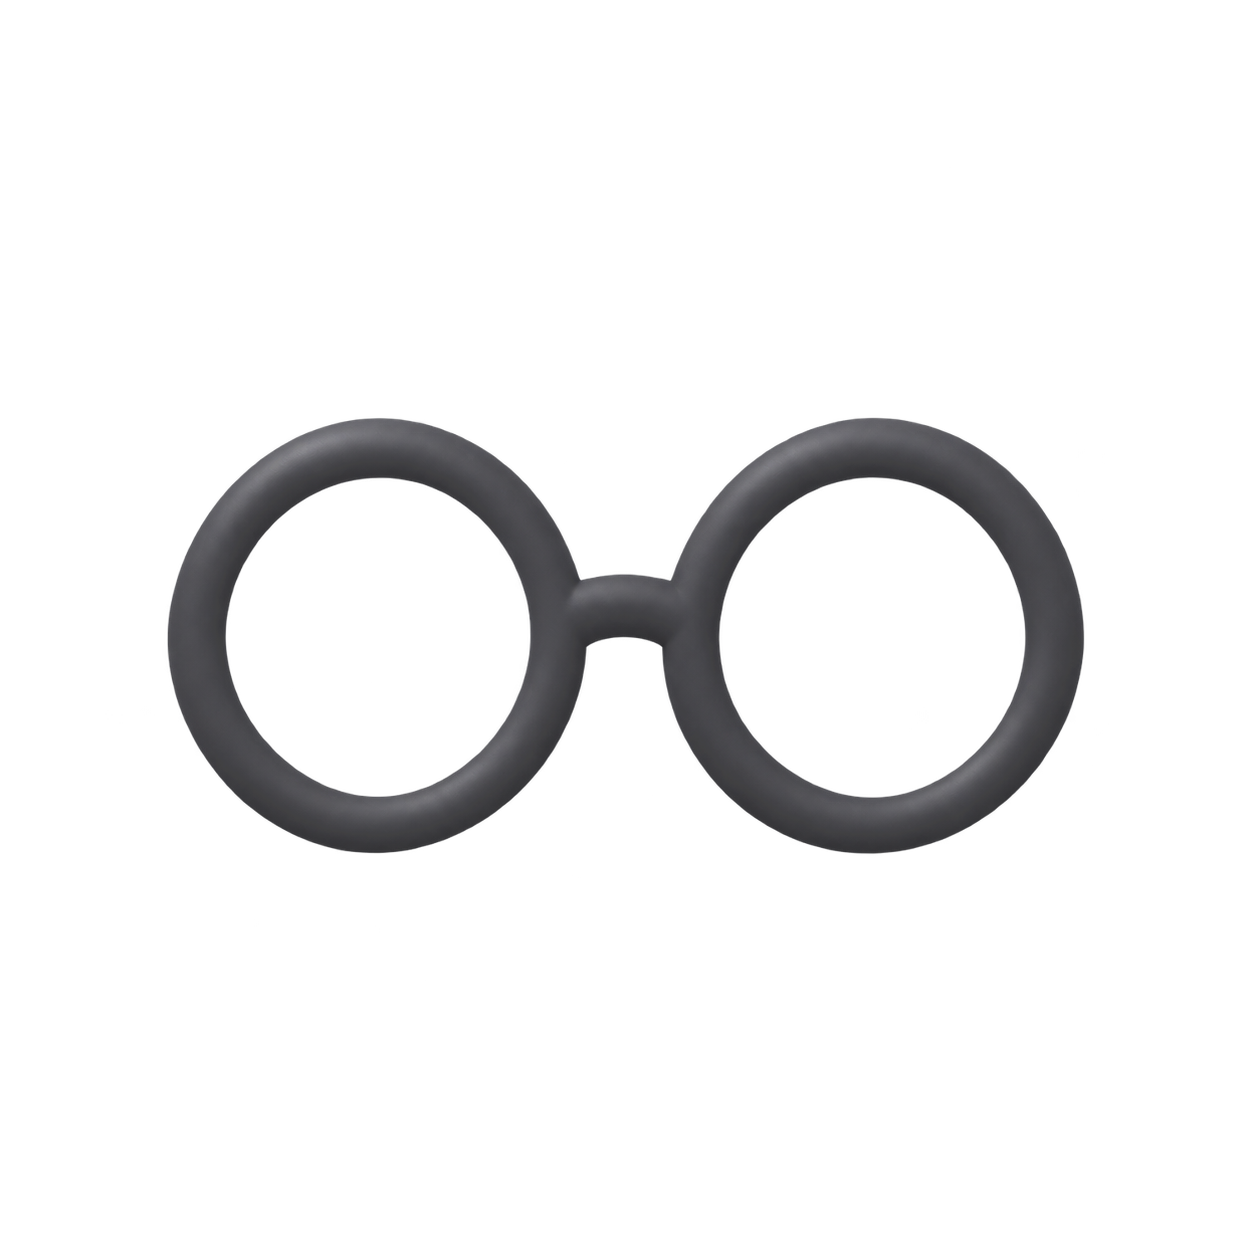
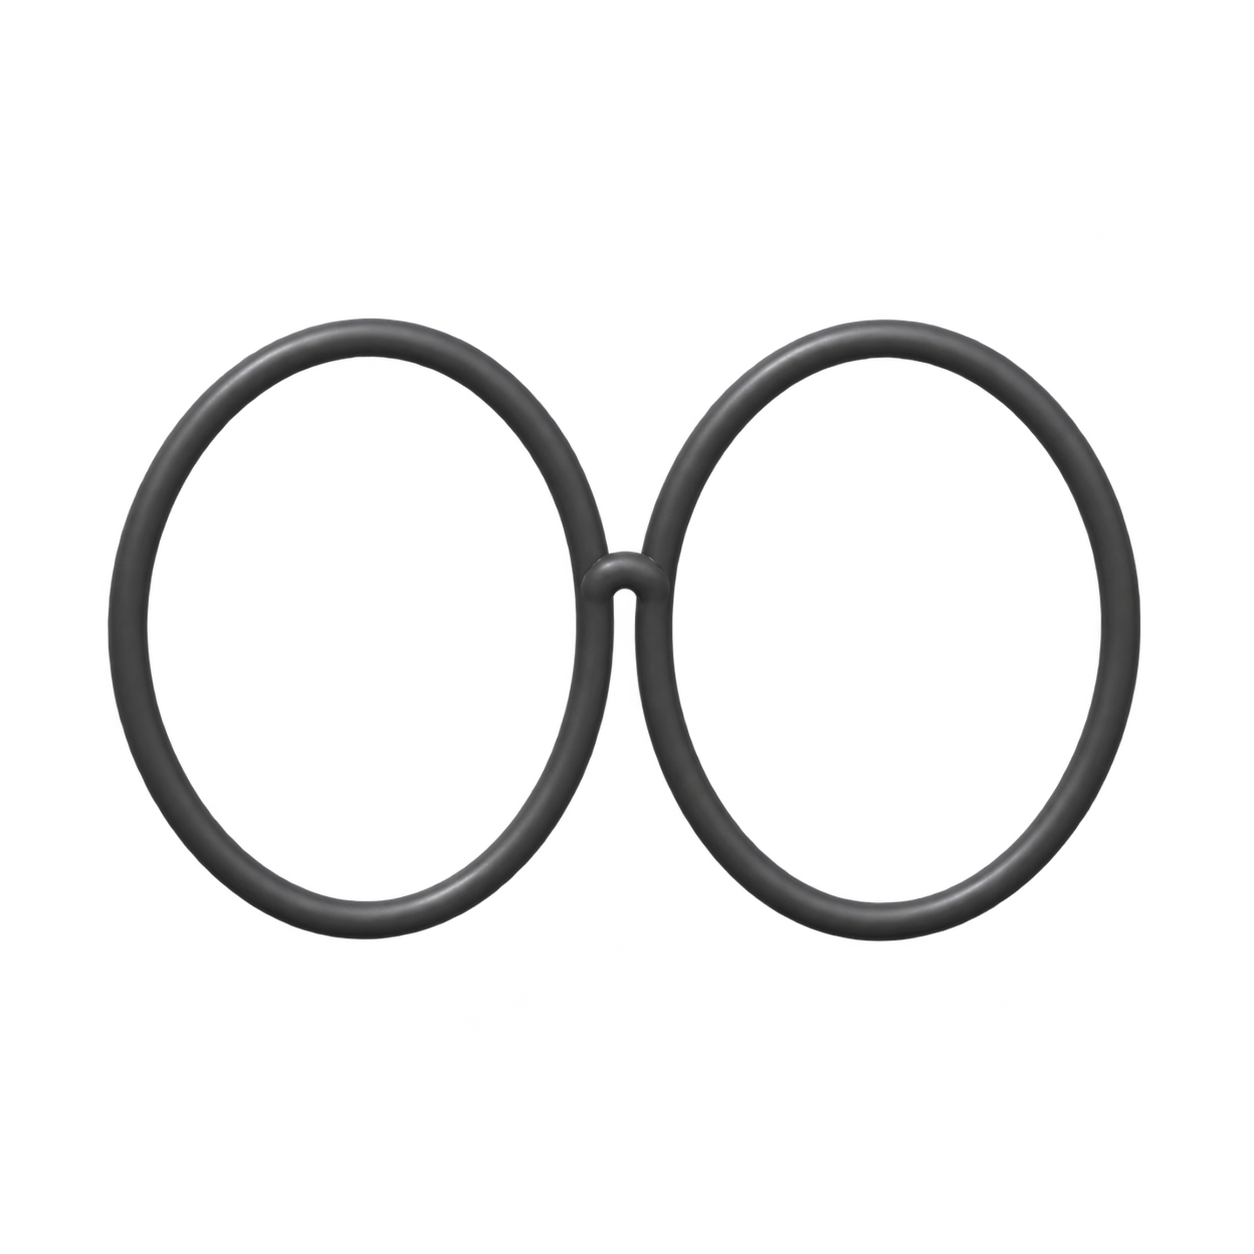
fixing glasses fit

Changed region(s): [[0.0622, 0.2488, 0.933, 0.7775]]

diff --git a/app/components/RoomiePet.tsx b/app/components/RoomiePet.tsx
@@ -1,15 +1,10 @@
 import { useContext } from 'react';
 import { RoomiePetContext } from './RoomiePetContext';
-import { getPetAccessoryIds } from '../data/roomiePetAccessories';
+import { getPetAccessoryIds, getRoomieAccessoryFrame } from '../data/roomiePetAccessories';
 import type { CSSProperties } from 'react';
 import type { PetMood } from '../data/roomiePetMood';
 import { ROOMIE_ACTIONS, type RoomieActionId } from '../data/roomieActions';
-import {
-  ROOMIE_ACCESSORY_PLACEMENTS,
-  ROOMIE_ACCESSORY_SLOTS,
-  type RoomieAccessoryId,
-  type RoomieAccessorySlot,
-} from '../data/roomiePetAccessories';
+import { ROOMIE_ACCESSORY_SLOTS, type RoomieAccessoryId, type RoomieAccessorySlot } from '../data/roomiePetAccessories';
 import annoyed3dBody from '../../assets/roomie-pet-kit/roomie-pet-kit/assets/annoyed-3d-body.png';
 import annoyed3dDetails from '../../assets/roomie-pet-kit/roomie-pet-kit/assets/annoyed-3d-details.png';
 import happy3dBody from '../../assets/roomie-pet-kit/roomie-pet-kit/assets/happy-3d-body.png';
@@ -128,14 +123,13 @@ export default function RoomiePet({ mood = 'happy', color, accessories: accessor
   const selectedAccessories = [...equippedBySlot.values()];
 
   function renderAccessory(id: RoomieAccessoryId) {
-    const [left, top, width, height] = ROOMIE_ACCESSORY_PLACEMENTS[id].map(value => value * size);
+    const [left, top, width, height] = getRoomieAccessoryFrame(id, size, getActionMood(mood), action);
     const original = ROOMIE_ACCESSORY_IMAGES[`../../assets/roomie-pet-kit/roomie-pet-kit/accessories/${id}.png`];
     const base = accessoryLayerImages[`../../assets/roomie-pet-kit/roomie-pet-kit/accessories/layers/${id}-base.png`];
     const details = accessoryLayerImages[`../../assets/roomie-pet-kit/roomie-pet-kit/accessories/layers/${id}-details.png`];
     const accessoryColor = accessoryColors[id];
-    const glassesOffset = id === 'round-glasses' && spriteMood !== 'happy-3d' ? size * 0.06 : 0;
     const bodyOffset = ROOMIE_ACCESSORY_SLOTS[id] === 'body' && spriteMood === 'stressed-3d' ? size * 0.03 : 0;
-    const position: CSSProperties = { position: 'absolute', left, top: top + glassesOffset + bodyOffset, width, height };
+    const position: CSSProperties = { position: 'absolute', left, top: top + bodyOffset, width, height };
 
     if (!accessoryColor) {
       return <img key={id} src={original} alt="" aria-hidden="true" draggable={false} style={{ ...position, objectFit: 'fill' }} />;

diff --git a/app/components/RoomiePet.native.tsx b/app/components/RoomiePet.native.tsx
@@ -1,16 +1,11 @@
 import { useContext } from 'react';
 import { RoomiePetContext } from './RoomiePetContext';
-import { getPetAccessoryIds } from '../data/roomiePetAccessories';
+import { getPetAccessoryIds, getRoomieAccessoryFrame } from '../data/roomiePetAccessories';
 import { Image, View } from 'react-native';
 import { getImageSource } from '../utils/imageSource';
 import type { PetMood } from '../data/roomiePetMood';
 import { ROOMIE_ACTIONS, type RoomieActionId } from '../data/roomieActions';
-import {
-  ROOMIE_ACCESSORY_PLACEMENTS,
-  ROOMIE_ACCESSORY_SLOTS,
-  type RoomieAccessoryId,
-  type RoomieAccessorySlot,
-} from '../data/roomiePetAccessories';
+import { ROOMIE_ACCESSORY_SLOTS, type RoomieAccessoryId, type RoomieAccessorySlot } from '../data/roomiePetAccessories';
 import annoyed3dBody from '../../assets/roomie-pet-kit/roomie-pet-kit/assets/annoyed-3d-body.png';
 import annoyed3dDetails from '../../assets/roomie-pet-kit/roomie-pet-kit/assets/annoyed-3d-details.png';
 import happy3dBody from '../../assets/roomie-pet-kit/roomie-pet-kit/assets/happy-3d-body.png';
@@ -150,12 +145,11 @@ export default function RoomiePet({ mood = 'happy', color, accessories: accessor
 
   function renderAccessory(id: RoomieAccessoryId) {
     const [original, base, extra] = accessoryAssets[id];
-    const [left, top, width, height] = ROOMIE_ACCESSORY_PLACEMENTS[id].map(value => value * size);
+    const [left, top, width, height] = getRoomieAccessoryFrame(id, size, expression, action);
     const accessoryColor = accessoryColors[id];
-    const glassesOffset = id === 'round-glasses' && expression !== 'happy' ? size * 0.06 : 0;
     const bodyOffset = ROOMIE_ACCESSORY_SLOTS[id] === 'body' && expression === 'stressed' ? size * 0.03 : 0;
     return (
-      <View key={id} pointerEvents="none" style={{ position: 'absolute', left, top: top + glassesOffset + bodyOffset, width, height }}>
+      <View key={id} pointerEvents="none" style={{ position: 'absolute', left, top: top + bodyOffset, width, height }}>
         <Image source={getImageSource(accessoryColor && base ? base : original)} resizeMode="stretch" style={{ width: '100%', height: '100%', tintColor: accessoryColor && base ? accessoryColor : undefined }} />
         {accessoryColor && extra && <Image source={getImageSource(extra)} resizeMode="stretch" style={accessoryLayer} />}
       </View>

diff --git a/app/components/RoomiePet.test.tsx b/app/components/RoomiePet.test.tsx
@@ -3,6 +3,7 @@ import { describe, expect, it } from 'vitest';
 import RoomiePet from './RoomiePet';
 import { RoomiePetContext } from './RoomiePetContext';
 import type { ResidentData } from '../hooks/useResidentData';
+import { getRoomieAccessoryFrame, ROOMIE_ACCESSORY_PLACEMENTS } from '../data/roomiePetAccessories';
 
 function renderSavedPet(accessories: NonNullable<ResidentData['pet']>['accessories']) {
   return renderToStaticMarkup(
@@ -16,6 +17,31 @@ function renderSavedPet(accessories: NonNullable<ResidentData['pet']>['accessori
 }
 
 describe('saved Roomie accessories', () => {
+  it('fits the new glasses asset without distortion and shifts it right in every mood', () => {
+    const happyFrame = getRoomieAccessoryFrame('round-glasses', 128, 'happy');
+    const annoyedFrame = getRoomieAccessoryFrame('round-glasses', 128, 'annoyed');
+
+    expect(happyFrame[2]).toBe(happyFrame[3]);
+    expect(happyFrame[0]).toBeGreaterThan(ROOMIE_ACCESSORY_PLACEMENTS['round-glasses'][0] * 128);
+    expect(annoyedFrame[1]).toBeGreaterThan(happyFrame[1]);
+    expect(annoyedFrame.slice(2)).toEqual(happyFrame.slice(2));
+  });
+
+  it('sizes and centers glasses to the face on action pets', () => {
+    const happyFrame = getRoomieAccessoryFrame('round-glasses', 128, 'happy');
+    const choresFrame = getRoomieAccessoryFrame('round-glasses', 128, 'happy', 'chores');
+    const expensesFrame = getRoomieAccessoryFrame('round-glasses', 128, 'happy', 'expenses');
+    const calendarFrame = getRoomieAccessoryFrame('round-glasses', 128, 'happy', 'calendar');
+    const centerX = (frame: number[]) => (frame[0] + frame[2] * 0.4984) / 128;
+
+    expect(choresFrame[2]).toBeCloseTo(happyFrame[2] * 0.85);
+    expect(expensesFrame[2]).toBeCloseTo(happyFrame[2] * 0.85);
+    expect(centerX(choresFrame)).toBeCloseTo(0.4472, 3);
+    expect(centerX(expensesFrame)).toBeCloseTo(0.4472, 3);
+    expect(centerX(calendarFrame)).toBeCloseTo(0.4795, 3);
+    expect(getRoomieAccessoryFrame('round-glasses', 128, 'annoyed', 'chores')).toEqual(choresFrame);
+  });
+
   it('applies saved accessories to every action and regular pet icon', () => {
     expect(renderSavedPet(['beanie']).match(/<img[^>]+src="[^"]*accessories\/beanie.png/g)).toHaveLength(4);
     expect(renderSavedPet([])).not.toContain('accessories/beanie.png');

diff --git a/app/data/roomiePetAccessories.ts b/app/data/roomiePetAccessories.ts
@@ -1,3 +1,5 @@
+import type { RoomieActionId } from './roomieActions';
+
 export const ROOMIE_ACCESSORY_IDS = [
   'bow',
   'sprout-hat',
@@ -48,6 +50,47 @@ export const ROOMIE_ACCESSORY_PLACEMENTS: Record<RoomieAccessoryId, [number, num
   bandana: [0.30074, 0.62527, 0.39692, 0.22621],
   'bow-tie': [0.3204, 0.5779, 0.35075, 0.30769],
 };
+
+export const ROOMIE_GLASSES_MOOD_OFFSETS: Record<'happy' | 'annoyed' | 'stressed', { x: number; y: number }> = {
+  happy: { x: 0.015, y: 0 },
+  annoyed: { x: 0.006, y: 0.042 },
+  stressed: { x: 0.01, y: 0.067 },
+};
+
+const glassesAssetCenter = { x: 0.4984, y: 0.5024 };
+const actionGlassesPlacement: Partial<Record<RoomieActionId, { x: number; y: number; scale: number }>> = {
+  chores: { x: 0.4472, y: 0.3939, scale: 0.85 },
+  expenses: { x: 0.4472, y: 0.3953, scale: 0.85 },
+  dinner: { x: 0.4918, y: 0.327, scale: 1 },
+  calendar: { x: 0.4795, y: 0.3939, scale: 1 },
+};
+
+export function getRoomieAccessoryFrame(
+  id: RoomieAccessoryId,
+  size: number,
+  mood: 'happy' | 'annoyed' | 'stressed',
+  action?: RoomieActionId,
+): [number, number, number, number] {
+  const [left, top, frameWidth, frameHeight] = ROOMIE_ACCESSORY_PLACEMENTS[id];
+  const actionPlacement = id === 'round-glasses' && action ? actionGlassesPlacement[action] : undefined;
+  const width = id === 'round-glasses' ? Math.min(frameWidth, frameHeight) * (actionPlacement?.scale ?? 1) : frameWidth;
+  const height = id === 'round-glasses' ? width : frameHeight;
+  if (actionPlacement) {
+    return [
+      actionPlacement.x * size - glassesAssetCenter.x * width * size,
+      actionPlacement.y * size - glassesAssetCenter.y * height * size,
+      width * size,
+      height * size,
+    ];
+  }
+  const offset = id === 'round-glasses' ? ROOMIE_GLASSES_MOOD_OFFSETS[mood] : { x: 0, y: 0 };
+  return [
+    (left + (frameWidth - width) / 2 + offset.x) * size,
+    (top + (frameHeight - height) / 2 + offset.y) * size,
+    width * size,
+    height * size,
+  ];
+}
 
 const legacyAccessories: Record<string, RoomieAccessoryId> = {
   'Little bow': 'bow',
